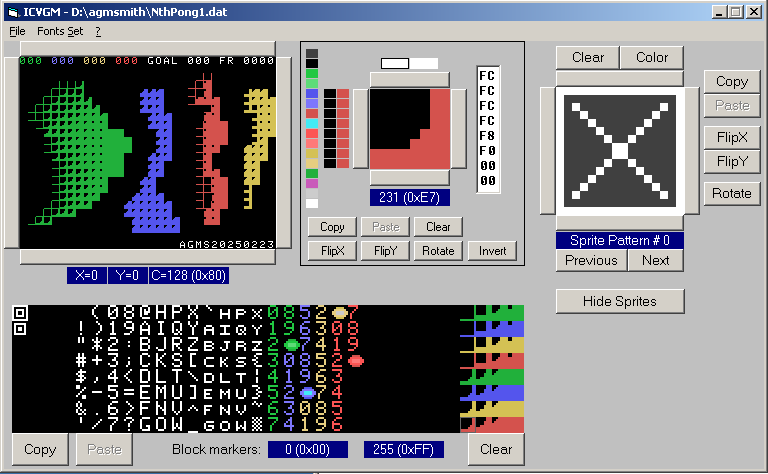
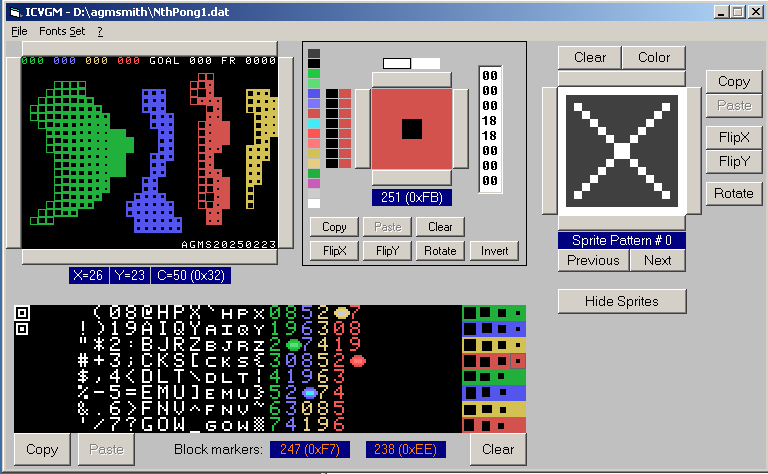
Adjusted friction, changed tile graphics.

diff --git a/SourceCode/common/players.c b/SourceCode/common/players.c
@@ -95,7 +95,7 @@ printf("(%f to %f, %f to %f)\n",
     DIV4_FX(pPlayer->velocity_x, pPlayer->velocity_x);
     INT_TO_FX(1, pPlayer->velocity_y);
 
-    pPlayer->brain = ((player_brain) BRAIN_INACTIVE);
+    pPlayer->brain = ((player_brain) BRAIN_KEYBOARD); /* Everybody at once! */
     pPlayer->main_colour =
 #ifdef NABU_H
       k_PLAYER_COLOURS[iPlayer].main;
@@ -744,7 +744,7 @@ void UpdatePlayerInputs(void)
         ((player_brain) BRAIN_JOYSTICK) :
         ((player_brain) BRAIN_KEYBOARD);
       pPlayer->joystick_inputs = joyStickData;
-#if 1
+#if 0
 printf("Player %d assigned to %s #%d.\n", iPlayer,
   (pPlayer->brain == ((player_brain) BRAIN_JOYSTICK)) ? "joystick" : "keyboard",
   pPlayer->brain_info.iJoystick);
@@ -856,8 +856,8 @@ GET_FX_FLOAT(pPlayer->velocity_x), GET_FX_FLOAT(pPlayer->velocity_y));
        rate down.  Don't need absolute value, it will bounce off a wall soon
        if it's going that fast. */
 
-    if (true || GET_FX_INTEGER(pPlayer->velocity_x) >= 1 ||
-    GET_FX_INTEGER(pPlayer->velocity_y) >= 1)
+    if (GET_FX_INTEGER(pPlayer->velocity_x) >= 2 ||
+    GET_FX_INTEGER(pPlayer->velocity_y) >= 2)
     {
       fx portionOfVelocity;
       DIV256_FX(pPlayer->velocity_x, portionOfVelocity);

diff --git a/SourceCode/nabu/main.c b/SourceCode/nabu/main.c
@@ -417,7 +417,7 @@ void main(void)
 
     g_ScoreFramesPerUpdate = vdpIsReady + 1;
 #if 1
-    if (g_ScoreFramesPerUpdate > 2) /* Non-zero means we missed frames. */
+    if (g_ScoreFramesPerUpdate >= 4) /* Non-zero means we missed frames. */
       playNoteDelay(2 /* Channel 0 to 2 */,
         10 + g_ScoreFramesPerUpdate /* Higher pitch if more missed */,
         40 /* Time delay to hold note. */);
